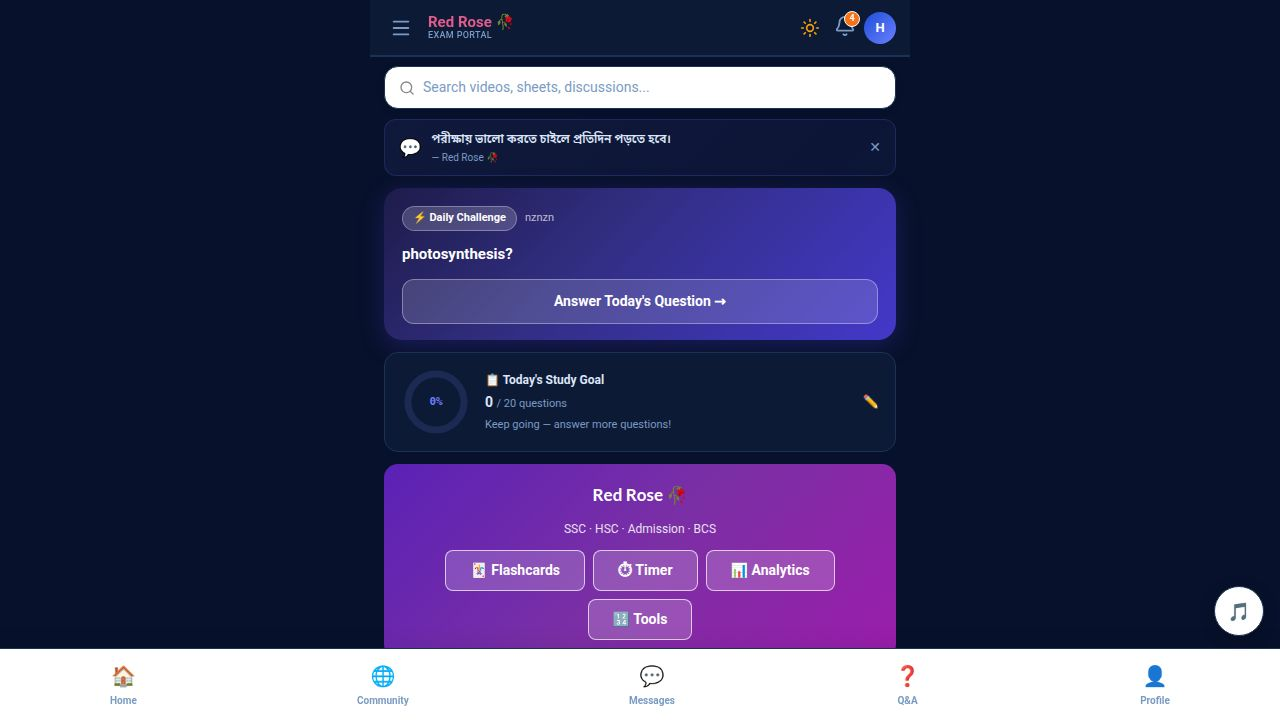
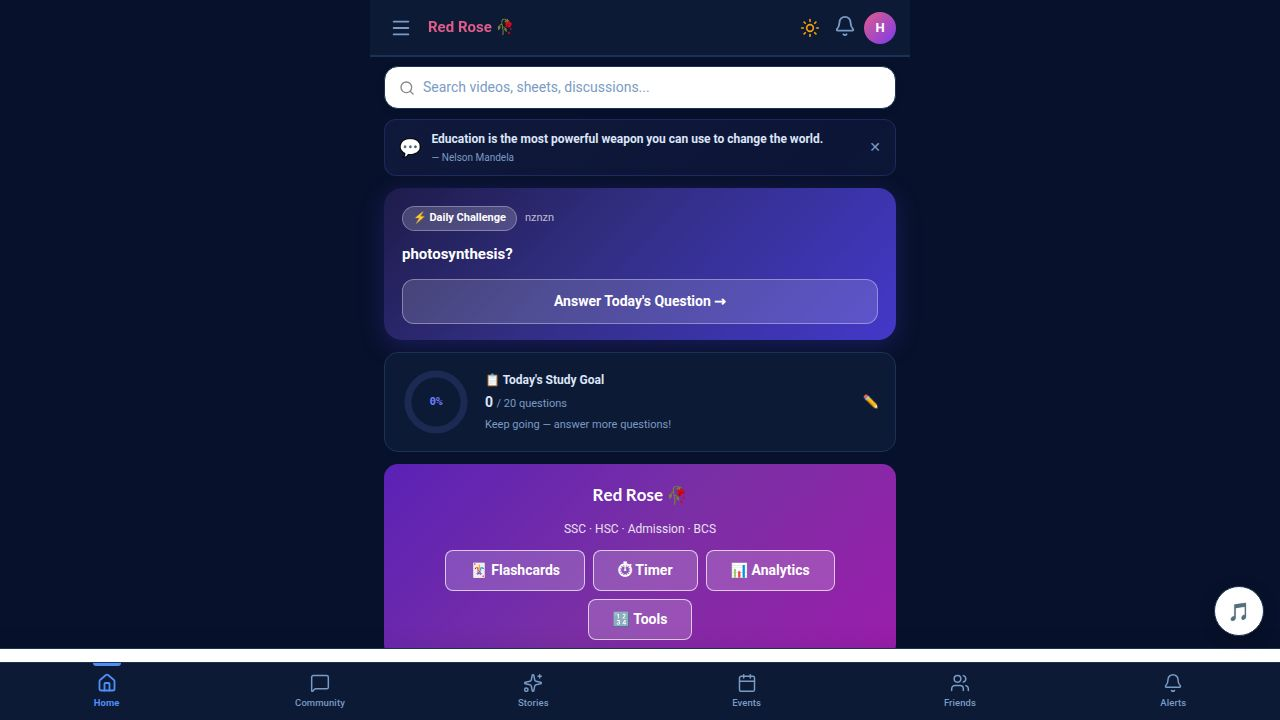
Improve video player display and reduce UI element sizes
Refactor YTPlayer component to use JavaScript for iframe zooming, removing CSS-based zoom layers. Adjust CSS in index.css to reduce cover bar heights and make the controls bar more compact.

Replit-Commit-Author: Agent
Replit-Commit-Session-Id: d2657004-1ebd-499a-addb-a7609e129dce
Replit-Commit-Checkpoint-Type: full_checkpoint
Replit-Commit-Event-Id: 47a8840a-8c6e-4459-b8e2-b57bd3f6fda2
Replit-Commit-Screenshot-Url: https://storage.googleapis.com/screenshot-production-us-central1/084b36ae-3663-40c6-90c7-d9bbc7a15bc5/d2657004-1ebd-499a-addb-a7609e129dce/15xTUDg
Replit-Helium-Checkpoint-Created: true

diff --git a/artifacts/yt-player/src/components/YTPlayer.tsx b/artifacts/yt-player/src/components/YTPlayer.tsx
@@ -54,6 +54,10 @@ const HIDE_DELAY       = 4500;
 const TOP_BAR_HIDE_MS  = 2500;
 const FIRST_PLAY_MS    = 4000;
 const TAP_GAP          = 380;
+/* Scale the YT iframe to 15% — branding bars (~56px) become ~8px.
+   Applied via JS with !important so YouTube's own inline styles can't fight it.
+   Covers (12px top + 12px bottom) hide those 8px with a safe margin.          */
+const ZOOM_SCALE       = 0.15;
 
 const fmt = (t: number) => {
   const s = Math.floor(t % 60);
@@ -149,6 +153,42 @@ export default function YTPlayer({ videoId, title = "", onEnded }: Props) {
     };
   }, []);
 
+  /* ── IFRAME ZOOM — applied via JS so YouTube's inline styles can't win ──
+     CSS-based zoom layers (width:500%, transform:scale) fail because:
+     1. YouTube sizes the iframe using clientWidth/clientHeight (visual px),
+        so the iframe stays container-sized inside a 500% layout div.
+     2. Large CSS percentage overflows escape overflow:hidden and break the
+        page layout (dashboard gets extra side margins).
+     JS with setProperty(...,'important') overrides both problems.           */
+  function applyIframeZoom() {
+    const container = containerRef.current;
+    const iframe    = playerDivRef.current?.querySelector<HTMLIFrameElement>("iframe");
+    if (!iframe || !container) return;
+    const W = container.clientWidth;
+    const H = container.clientHeight;
+    if (!W || !H) return;
+    const inv = 1 / ZOOM_SCALE;
+    iframe.style.setProperty("position",         "absolute",                   "important");
+    iframe.style.setProperty("top",              "0",                          "important");
+    iframe.style.setProperty("left",             "0",                          "important");
+    iframe.style.setProperty("width",            `${Math.round(W * inv)}px`,   "important");
+    iframe.style.setProperty("height",           `${Math.round(H * inv)}px`,   "important");
+    iframe.style.setProperty("transform",        `scale(${ZOOM_SCALE})`,       "important");
+    iframe.style.setProperty("transform-origin", "top left",                   "important");
+    iframe.style.setProperty("border",           "none",                       "important");
+    iframe.style.setProperty("pointer-events",   "none",                       "important");
+  }
+
+  /* Reapply whenever the container resizes (orientation change, desktop resize,
+     fullscreen enter/exit). */
+  useEffect(() => {
+    const container = containerRef.current;
+    if (!container) return;
+    const ro = new ResizeObserver(() => applyIframeZoom());
+    ro.observe(container);
+    return () => ro.disconnect();
+  }, []);
+
   /* ── LOAD YOUTUBE API ─────────────────────────────────────────────────── */
   useEffect(() => {
     isFirstPlay.current = true;
@@ -197,7 +237,7 @@ export default function YTPlayer({ videoId, title = "", onEnded }: Props) {
              the <iframe> element so the browser respects inline playback.
              Removes allowfullscreen to block browser-level fullscreen.
           ─────────────────────────────────────────────────── */
-          const iframe = playerDivRef.current?.querySelector("iframe");
+          const iframe = playerDivRef.current?.querySelector<HTMLIFrameElement>("iframe");
           if (iframe) {
             iframe.id = "yt-player-iframe";
             iframe.setAttribute("playsinline", "1");
@@ -208,6 +248,10 @@ export default function YTPlayer({ videoId, title = "", onEnded }: Props) {
               "allow",
               allow.replace(/;?\s*fullscreen[^;]*/gi, "").replace(/^;\s*/, "")
             );
+            /* Apply zoom immediately after YouTube creates the iframe so branding
+               is never visible even on the very first frame. ResizeObserver handles
+               subsequent container size changes (orientation, resize, fullscreen). */
+            applyIframeZoom();
           }
           const p = e.target;
           setDuration(p.getDuration());
@@ -436,13 +480,9 @@ export default function YTPlayer({ videoId, title = "", onEnded }: Props) {
       className="ytp-aspect-wrap"
       onClick={speedOpen || qualityOpen || ccOpen ? () => { setSpeedOpen(false); setQualityOpen(false); setCcOpen(false); } : undefined}
     >
-      {/* YouTube iframe target — wrapped in zoom layer so YouTube's inline
-          styles on the iframe don't fight our transform. The wrapper scales
-          to 20% visually, shrinking YT branding to ~11px while the video
-          still fills the container perfectly. */}
-      <div className="ytp-zoom-layer">
-        <div ref={playerDivRef} style={{ position: "absolute", inset: 0, width: "100%", height: "100%" }} />
-      </div>
+      {/* YouTube iframe target — zoom applied via JS in onReady (see applyIframeZoom).
+          No CSS zoom wrapper needed; JS !important overrides YouTube's inline styles. */}
+      <div ref={playerDivRef} style={{ position: "absolute", inset: 0, width: "100%", height: "100%" }} />
 
       {/* TOP BAR — permanently covers YouTube branding at the top edge.
           Must ALWAYS be opacity 1 — going transparent even for one frame

diff --git a/artifacts/yt-player/src/index.css b/artifacts/yt-player/src/index.css
@@ -421,28 +421,6 @@ input, button, select, textarea, label {
   height: 100vh !important;
   aspect-ratio: unset !important;
 }
-/* ── ZOOM LAYER — wraps the YT iframe only.
-   Mobile: 500%×500% + scale(0.2)  → YT branding ~56px → ~11px visually.
-   Desktop: 400%×400% + scale(0.25) → YT branding ~56px → ~14px visually.
-   Both still covered by the 16px top/bottom bars.
-   The iframe itself keeps YouTube's inline 100%×100% of this layer, so
-   the API never fights our transform. All overlays live OUTSIDE this layer
-   and render at full size — only the YT chrome shrinks, not our UI. */
-.ytp-zoom-layer {
-  position: absolute;
-  top: 0; left: 0;
-  width: 500%;
-  height: 500%;
-  transform: scale(0.2);
-  transform-origin: top left;
-}
-@media (min-width: 768px) {
-  .ytp-zoom-layer {
-    width: 400%;
-    height: 400%;
-    transform: scale(0.25);
-  }
-}
 
 .ytp-aspect-wrap iframe {
   position: absolute; inset: 0;
@@ -458,9 +436,8 @@ input, button, select, textarea, label {
   position: absolute;
   top: 0; left: 0; right: 0;
   /* YT top branding ~56px at 100%:
-       mobile  scale(0.2)  → ~11px  → 16px cover gives 5px safety margin
-       desktop scale(0.25) → ~14px  → 16px cover gives 2px safety margin */
-  height: 16px;
+       scale(0.15) → ~8.4px  → 12px cover gives 3.6px safety margin */
+  height: 12px;
   background: #000;
   z-index: 1002;
   pointer-events: none;
@@ -472,8 +449,8 @@ input, button, select, textarea, label {
 .ytp-bottom-cover {
   position: absolute;
   bottom: 0; left: 0; right: 0;
-  /* YT bottom chrome ~60px at 100% → ~12-15px at our zoom scale. 16px safe. */
-  height: 16px;
+  /* YT bottom chrome ~60px at 100% → ~9px at scale(0.15). 12px safe. */
+  height: 12px;
   background: #000;
   z-index: 1002;
   pointer-events: none;
@@ -541,7 +518,7 @@ input, button, select, textarea, label {
   bottom: 0; left: 0; right: 0;
   background: #000;
   z-index: 1003;
-  padding: 0 4px 4px;
+  padding: 0 4px 2px;
   transition: opacity 600ms ease-in-out;
 }
 .ytp-controls.hidden { opacity: 0; pointer-events: none; }
@@ -549,10 +526,10 @@ input, button, select, textarea, label {
 /* Progress bar row — big touch target so finger can grab it easily */
 .ytp-prog-row {
   position: relative;
-  height: 28px; padding: 0 2px; cursor: pointer;
+  height: 22px; padding: 0 2px; cursor: pointer;
   touch-action: none; user-select: none;
 }
-@media (orientation: landscape) { .ytp-prog-row { height: 32px; } }
+@media (orientation: landscape) { .ytp-prog-row { height: 26px; } }
 
 .ytp-prog-track {
   position: absolute; left: 2px; right: 2px; top: 50%;
@@ -599,13 +576,13 @@ input, button, select, textarea, label {
 
 /* Buttons row */
 .ytp-btn-row {
-  display: flex; align-items: center; gap: 0; height: 38px;
+  display: flex; align-items: center; gap: 0; height: 32px;
 }
 .ytp-btn {
   background: none; border: none; color: #fff;
-  cursor: pointer; padding: 2px 5px;
+  cursor: pointer; padding: 1px 4px;
   display: flex; align-items: center; justify-content: center;
-  min-width: 28px; min-height: 32px; opacity: 0.9; flex-shrink: 0;
+  min-width: 24px; min-height: 28px; opacity: 0.9; flex-shrink: 0;
   transition: opacity 100ms;
 }
 .ytp-btn:hover { opacity: 1; }